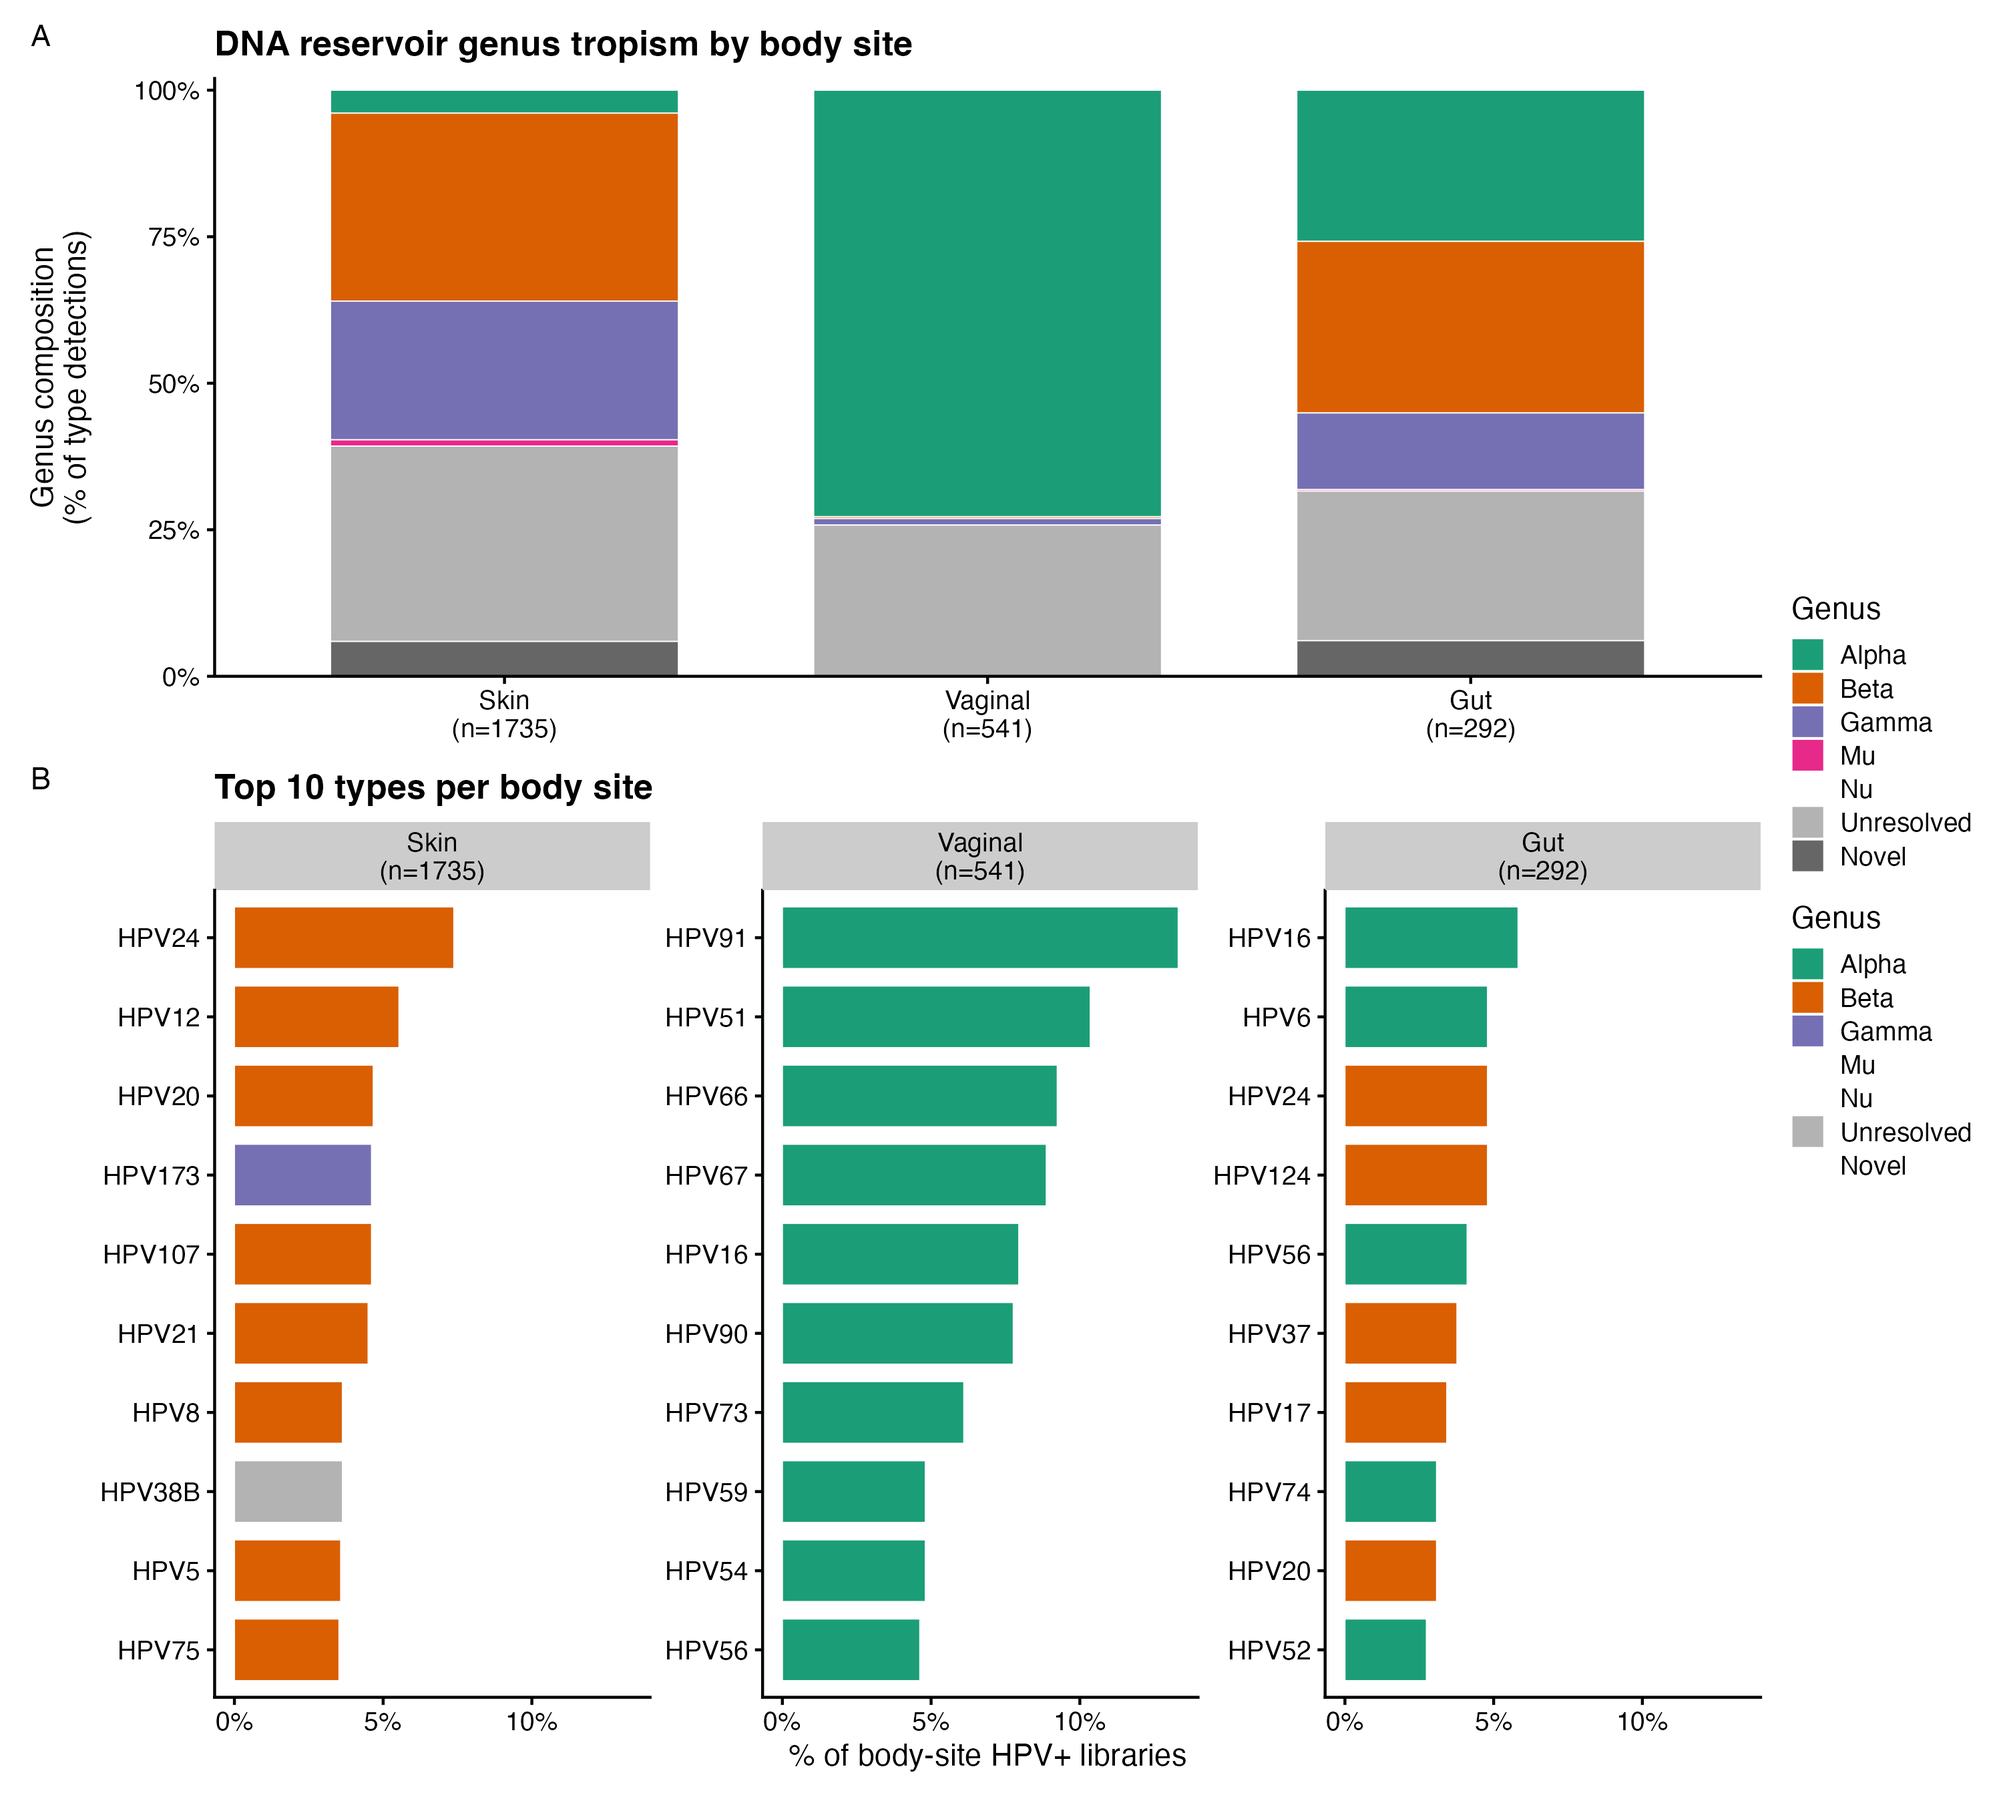
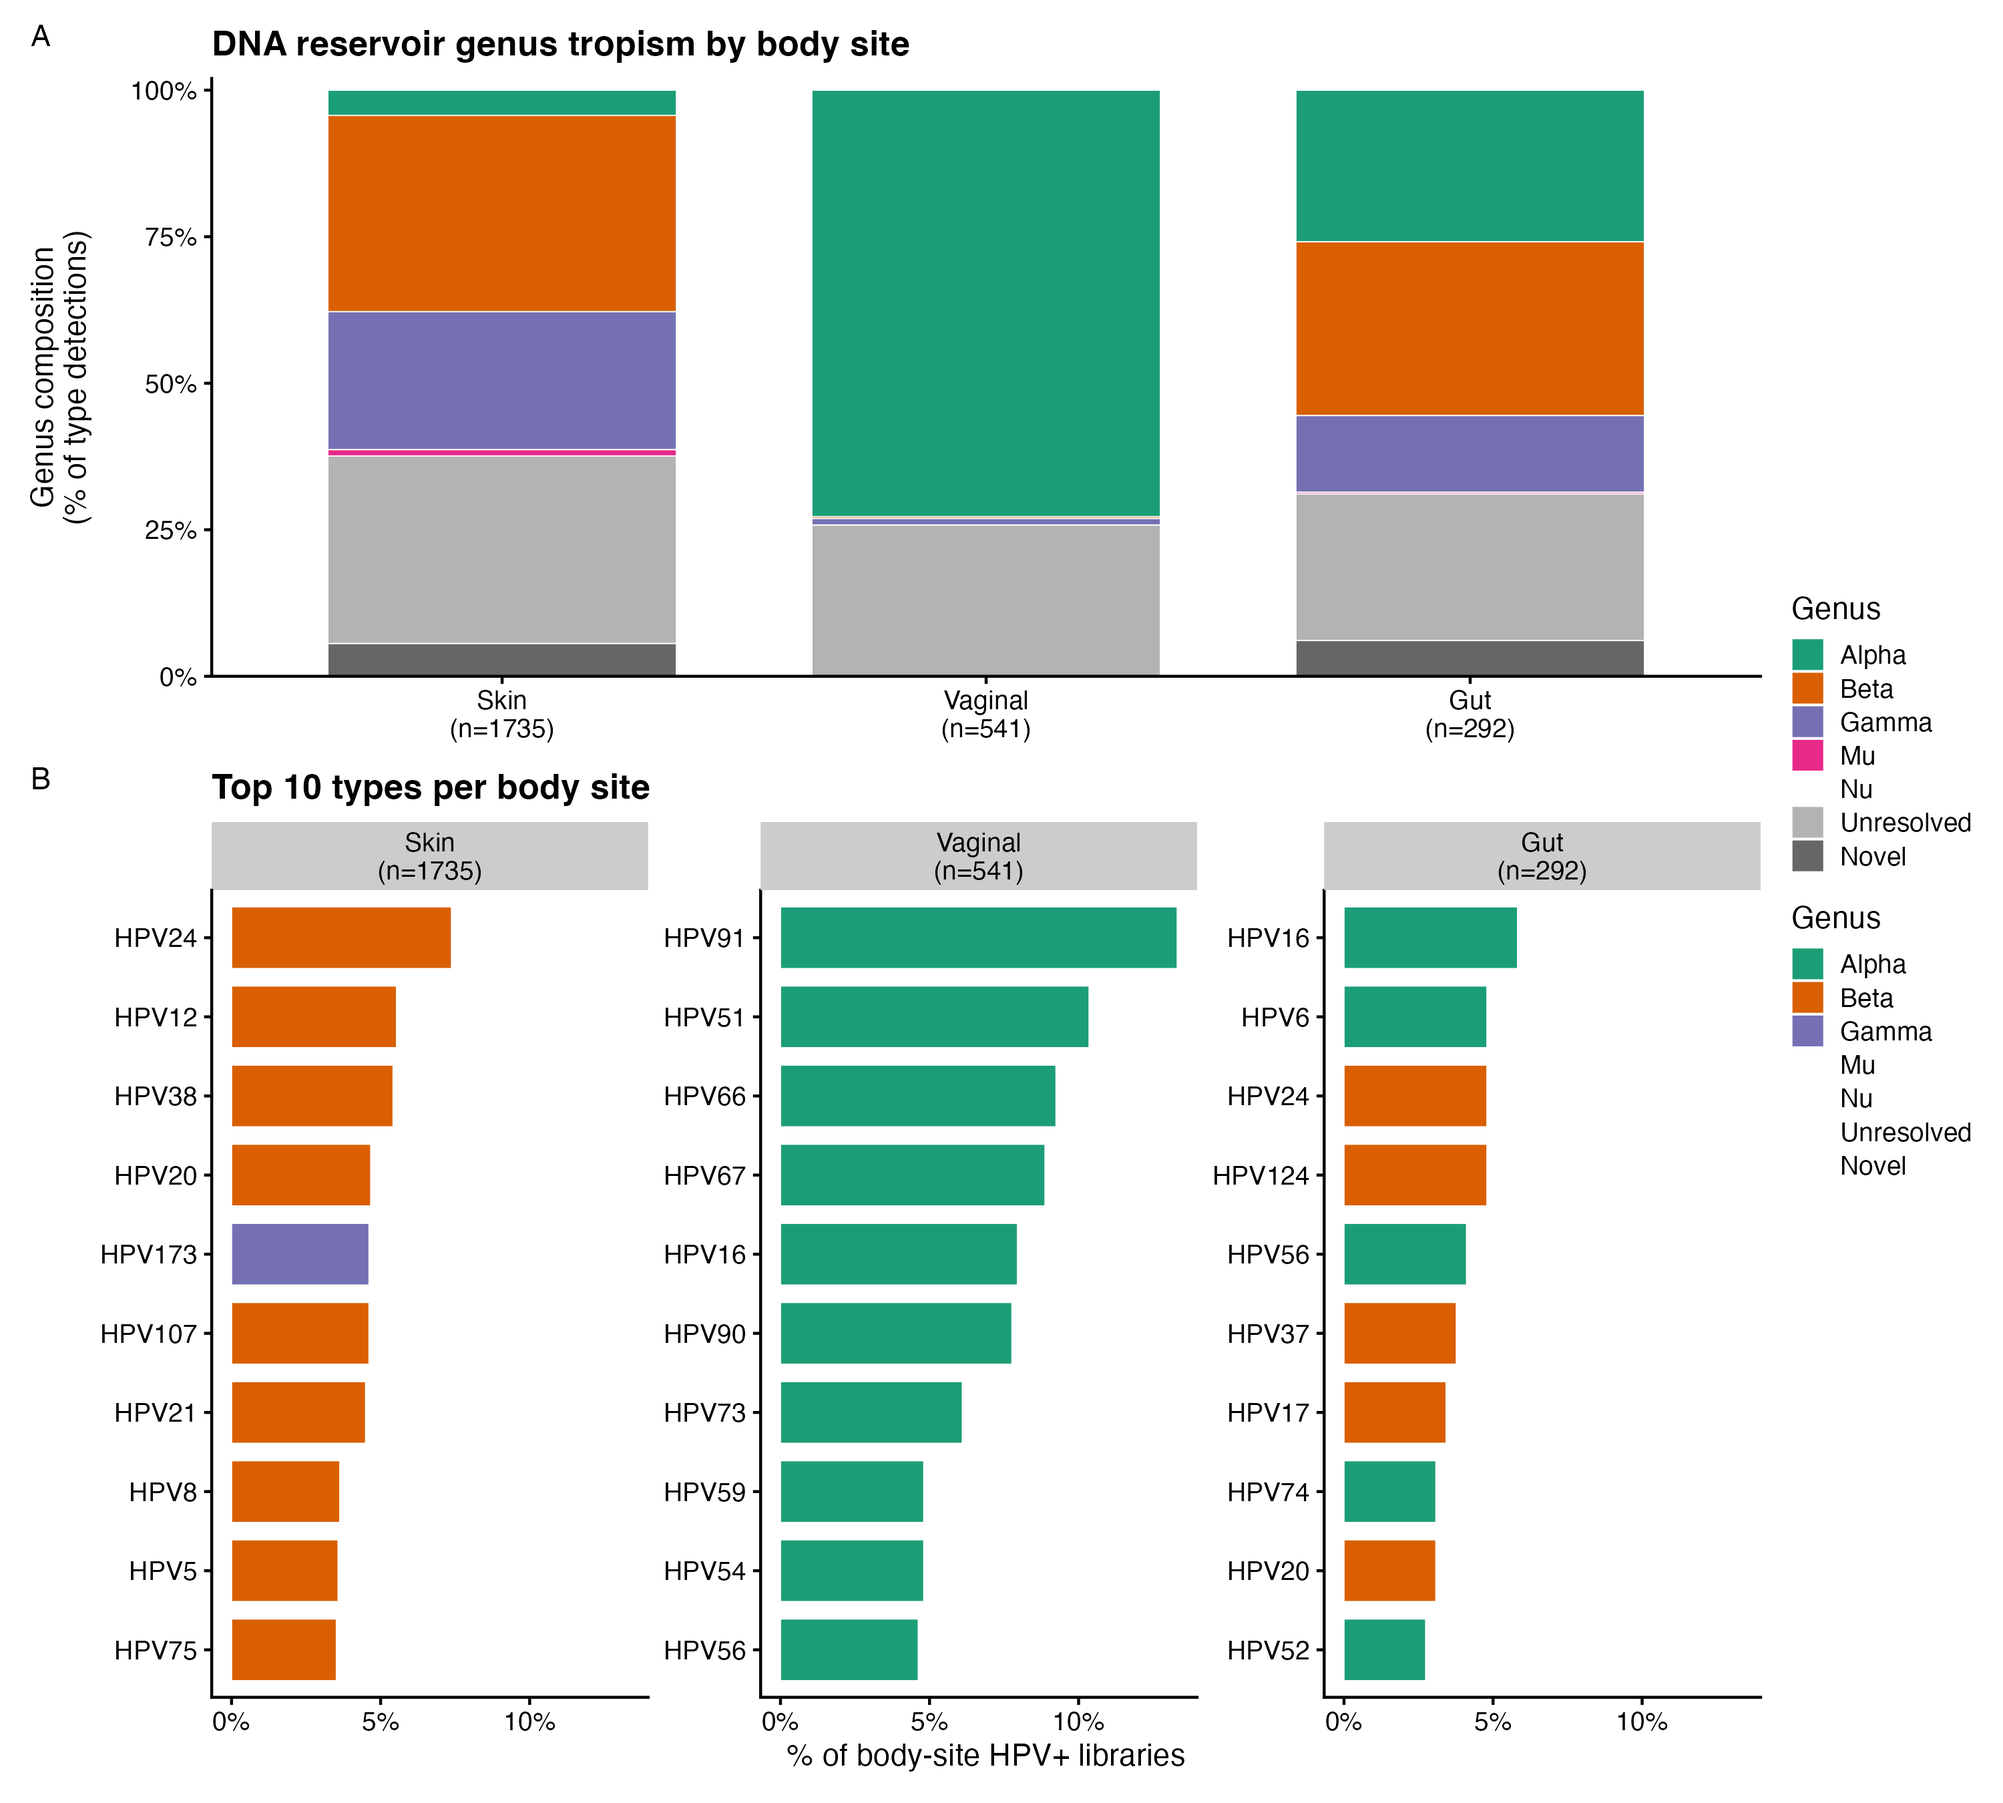
audit: check every claim in the plan I had called small or settled
Three were wrong and one was worse than described. The pattern is the point: the
items I had labelled minor were the ones nobody had looked at.

Same subtype bug in the body-site analysis. shen_reservoir_by_tissue.R held a
private copy of the type parser and was not fixed alongside
shen_skin_dna_vs_rna.R, so the skin figure and the body-site figure disagreed
about which genus HPV38B belongs to. Skin beta moves 55.2% to 57.9% and
Unresolved 57.3% to 55.3%. Both scripts now source dna_rna_triangulation/
_type_norm.R so they cannot diverge again, which is the fix for the cause rather
than the symptom.

The old 5.1 was a wrong diagnosis of a real problem. It said the RNA side skews
lesional; it does not, since rna_skin_present already uses the unselected-skin
tier. The actual defect is that it uses only the ASSIGNED type catalogue, so the
beta/gamma reservoir reads zero where the detection tier in fact holds HPV49 in
5 libraries, HPV20 in 4, HPV12 in 3, HPV134 in 3, and 23 beta plus 11 gamma
trace calls overall. The column is therefore "a handful below threshold", not
"absent". Flagged rather than changed, because it alters a published figure, but
with an explicit instruction not to describe those types as absent from skin RNA
in the meantime.

The anorectal caveat was half right. 570/692 generic site labels is exact, but
the claim that they carry an anal-carcinoma diagnosis is wrong: 474 of 692 are
[…]

diff --git a/presence_vs_activity/PLAN.md b/presence_vs_activity/PLAN.md
@@ -110,12 +110,12 @@ re-derive it, and must cite paper 1 for its validation.
 
 All cheap, all are the obvious referee objections, and none needs the cluster.
 
-### 5.1 Restrict the skin RNA side to unselected skin
-Our skin libraries skew clinical and lesional (warts, EV, cSCC), so "beta is
-silent" is partly a statement about which skin got sequenced. Recompute R2 with
-the RNA side restricted to the unselected-skin tier. The direction is expected to
-hold; the magnitude of the silent column will shrink. Until this is done R2 is
-weaker than it reads. (Caveat 1 of the triangulation report.)
+### 5.1 SUPERSEDED: the silent column is a threshold artefact, not a selection one
+
+This item claimed the RNA side skews lesional. It does not: `rna_skin_present`
+already reads the unselected-skin tier. The real defect is that it reads only
+the ASSIGNED catalogue, so types detected below breadth 0.10 / depth 2 show as
+zero. See 5.0 item 3 for the measured trace-tier counts and the decision owed.
 
 ### 5.2c Decision: do NOT run a DNA-versus-RNA RPM comparison (2026-08-06)
 
@@ -227,6 +227,52 @@ reservoir*, which was one of the strongest statements in the analysis, while
 their own subtypes sat unjoined in the same table with 58 and 13 libraries. That
 list drops from eleven types to nine. All three types also move from
 `Unresolved` to their correct genus, which raises beta from 55.2% to 57.9%.
+
+### 5.0 Audit of the claims in this plan (2026-08-06)
+
+Every statement here that I had called small, expected or settled was checked
+against the data. Three were wrong and one was worse than described. Recorded
+because the pattern matters more than the individual errors: the ones I labelled
+as minor were the ones that had not been looked at.
+
+**Wrong, now fixed.**
+
+1. *"The subtype-letter join is a small effect."* It corrupted a headline claim.
+   See 5.3.
+2. *The same bug in the body-site analysis.* `shen_reservoir_by_tissue.R` kept a
+   private copy of the type parser and was never fixed alongside
+   `shen_skin_dna_vs_rna.R`, so the two figures disagreed about which genus
+   HPV38B belongs to. Skin beta moved 55.2% to 57.9%, Unresolved 57.3% to 55.3%.
+   Both now source `_type_norm.R`, so they cannot diverge again.
+3. *"The RNA side skews lesional, so the silent column is inflated"* (old 5.1).
+   Wrong diagnosis of a real problem. `rna_skin_present` already uses the
+   unselected-skin tier, so lesional selection is not the issue. The actual
+   issue is that it uses the ASSIGNED type catalogue (breadth >= 0.10, depth
+   >= 2) only. The beta/gamma reservoir is present in unselected-skin RNA at
+   the detection tier: HPV49 in 5 libraries, HPV20 in 4, HPV12 in 3, HPV134 in
+   3, and 23 beta plus 11 gamma trace calls in total. So the column reads zero
+   where the truth is "a handful, below the assignment threshold". The figure
+   must either add the trace tier to that column or relabel it
+   *assigned-level presence*. Left as a decision because it changes a published
+   figure. **Until then, do not describe those types as absent from skin RNA.**
+
+**Worse than described.** The anorectal caveat says 82% carry a generic tissue
+label "and an anal-carcinoma diagnosis". The first half is exact (570/692 are
+`muu`), but the second is wrong: 474 of 692 carry diagnosis `unspecified`, so
+most have neither a site nor a diagnosis. The pilot's tier assignment rests on
+less than the caveat implied. It also contains 51 `control` and 12
+`control; tumor` labels, which need the control-arm check applied.
+
+**Verified as stated.** Vaginal reservoir 84.5% alpha (unchanged by the type
+fix). Anorectal productive types are 100% Alphapapillomavirus, 22 types, HPV16
+leading at 91 libraries, with no beta or gamma anywhere in the productive list.
+
+**Verified only in part.** R4 says the cutaneous beta types HPV24 and HPV124 are
+"entirely silent" in the anal transcriptome. Confirmed for *productive*
+infection, since the productive list carries no beta at all. Not confirmed for
+any-level detection, which is what "silent" implies and which the pilot outputs
+do not record. Either weaken the wording to "not productive" or compute the
+detection-tier counts for the anal cohort.
 
 ### 5.4 Tier the anorectal pilot
 The 681 libraries carry automatic HPV-positive and productive calls without the
